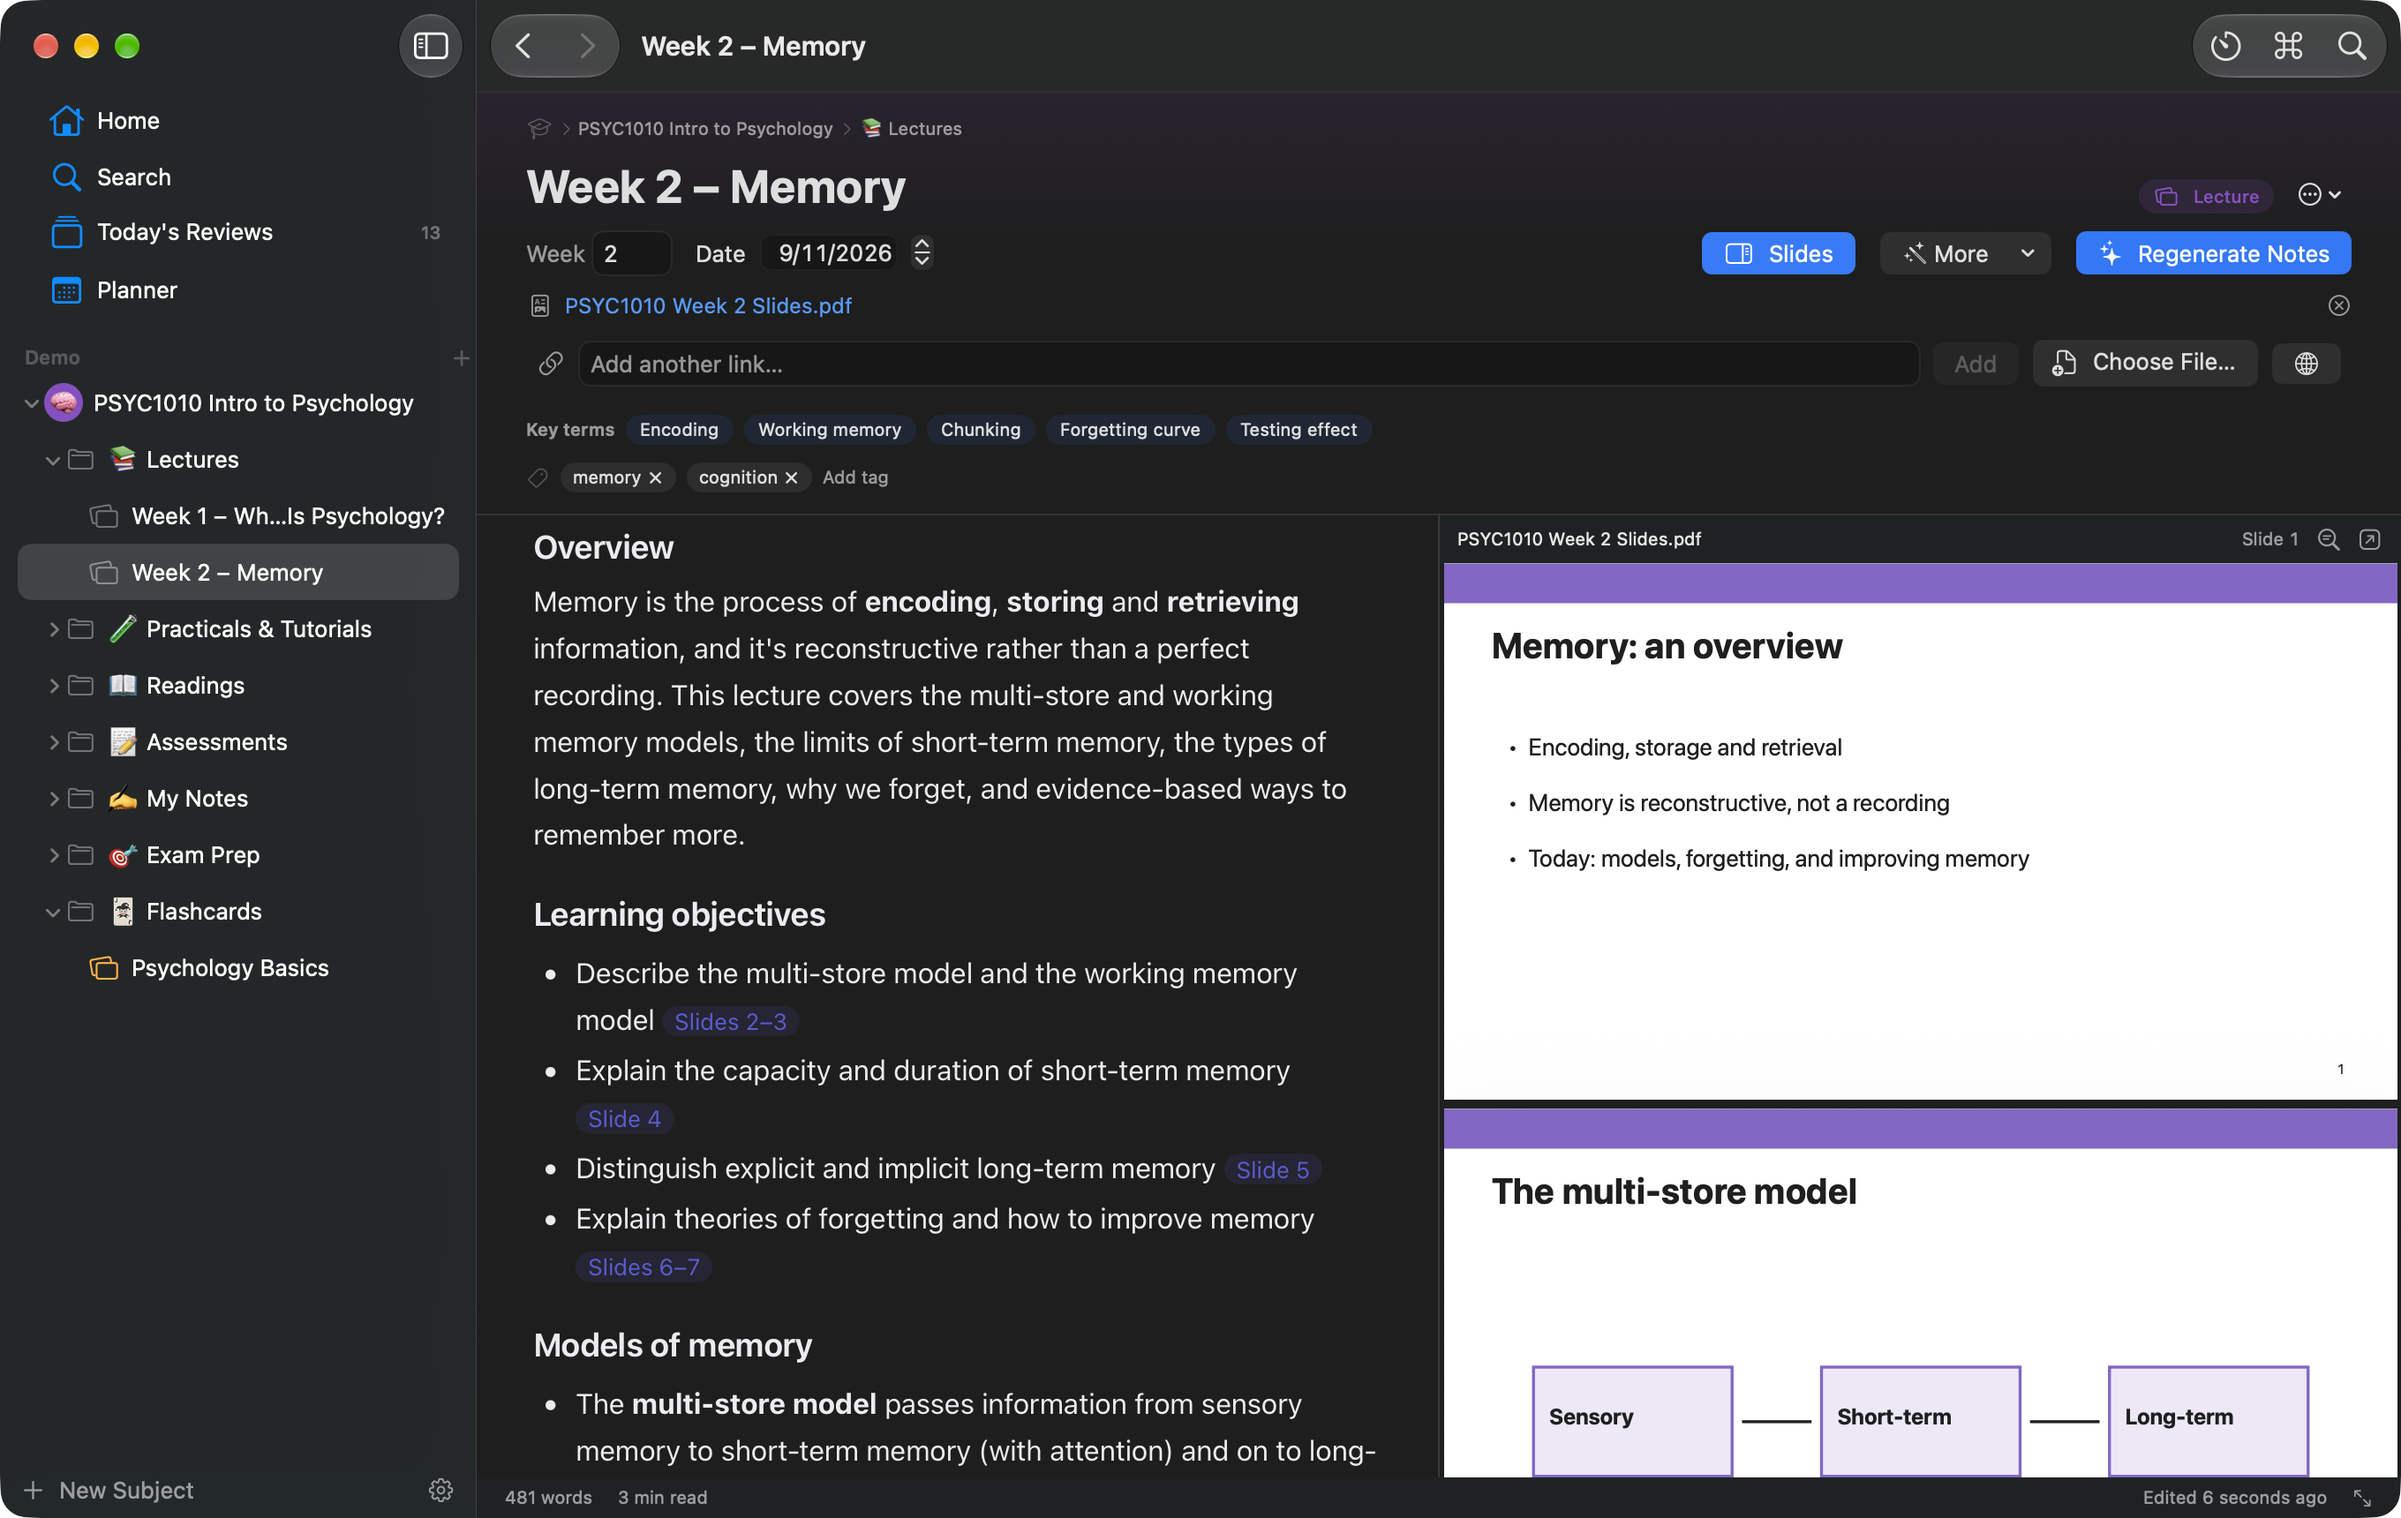
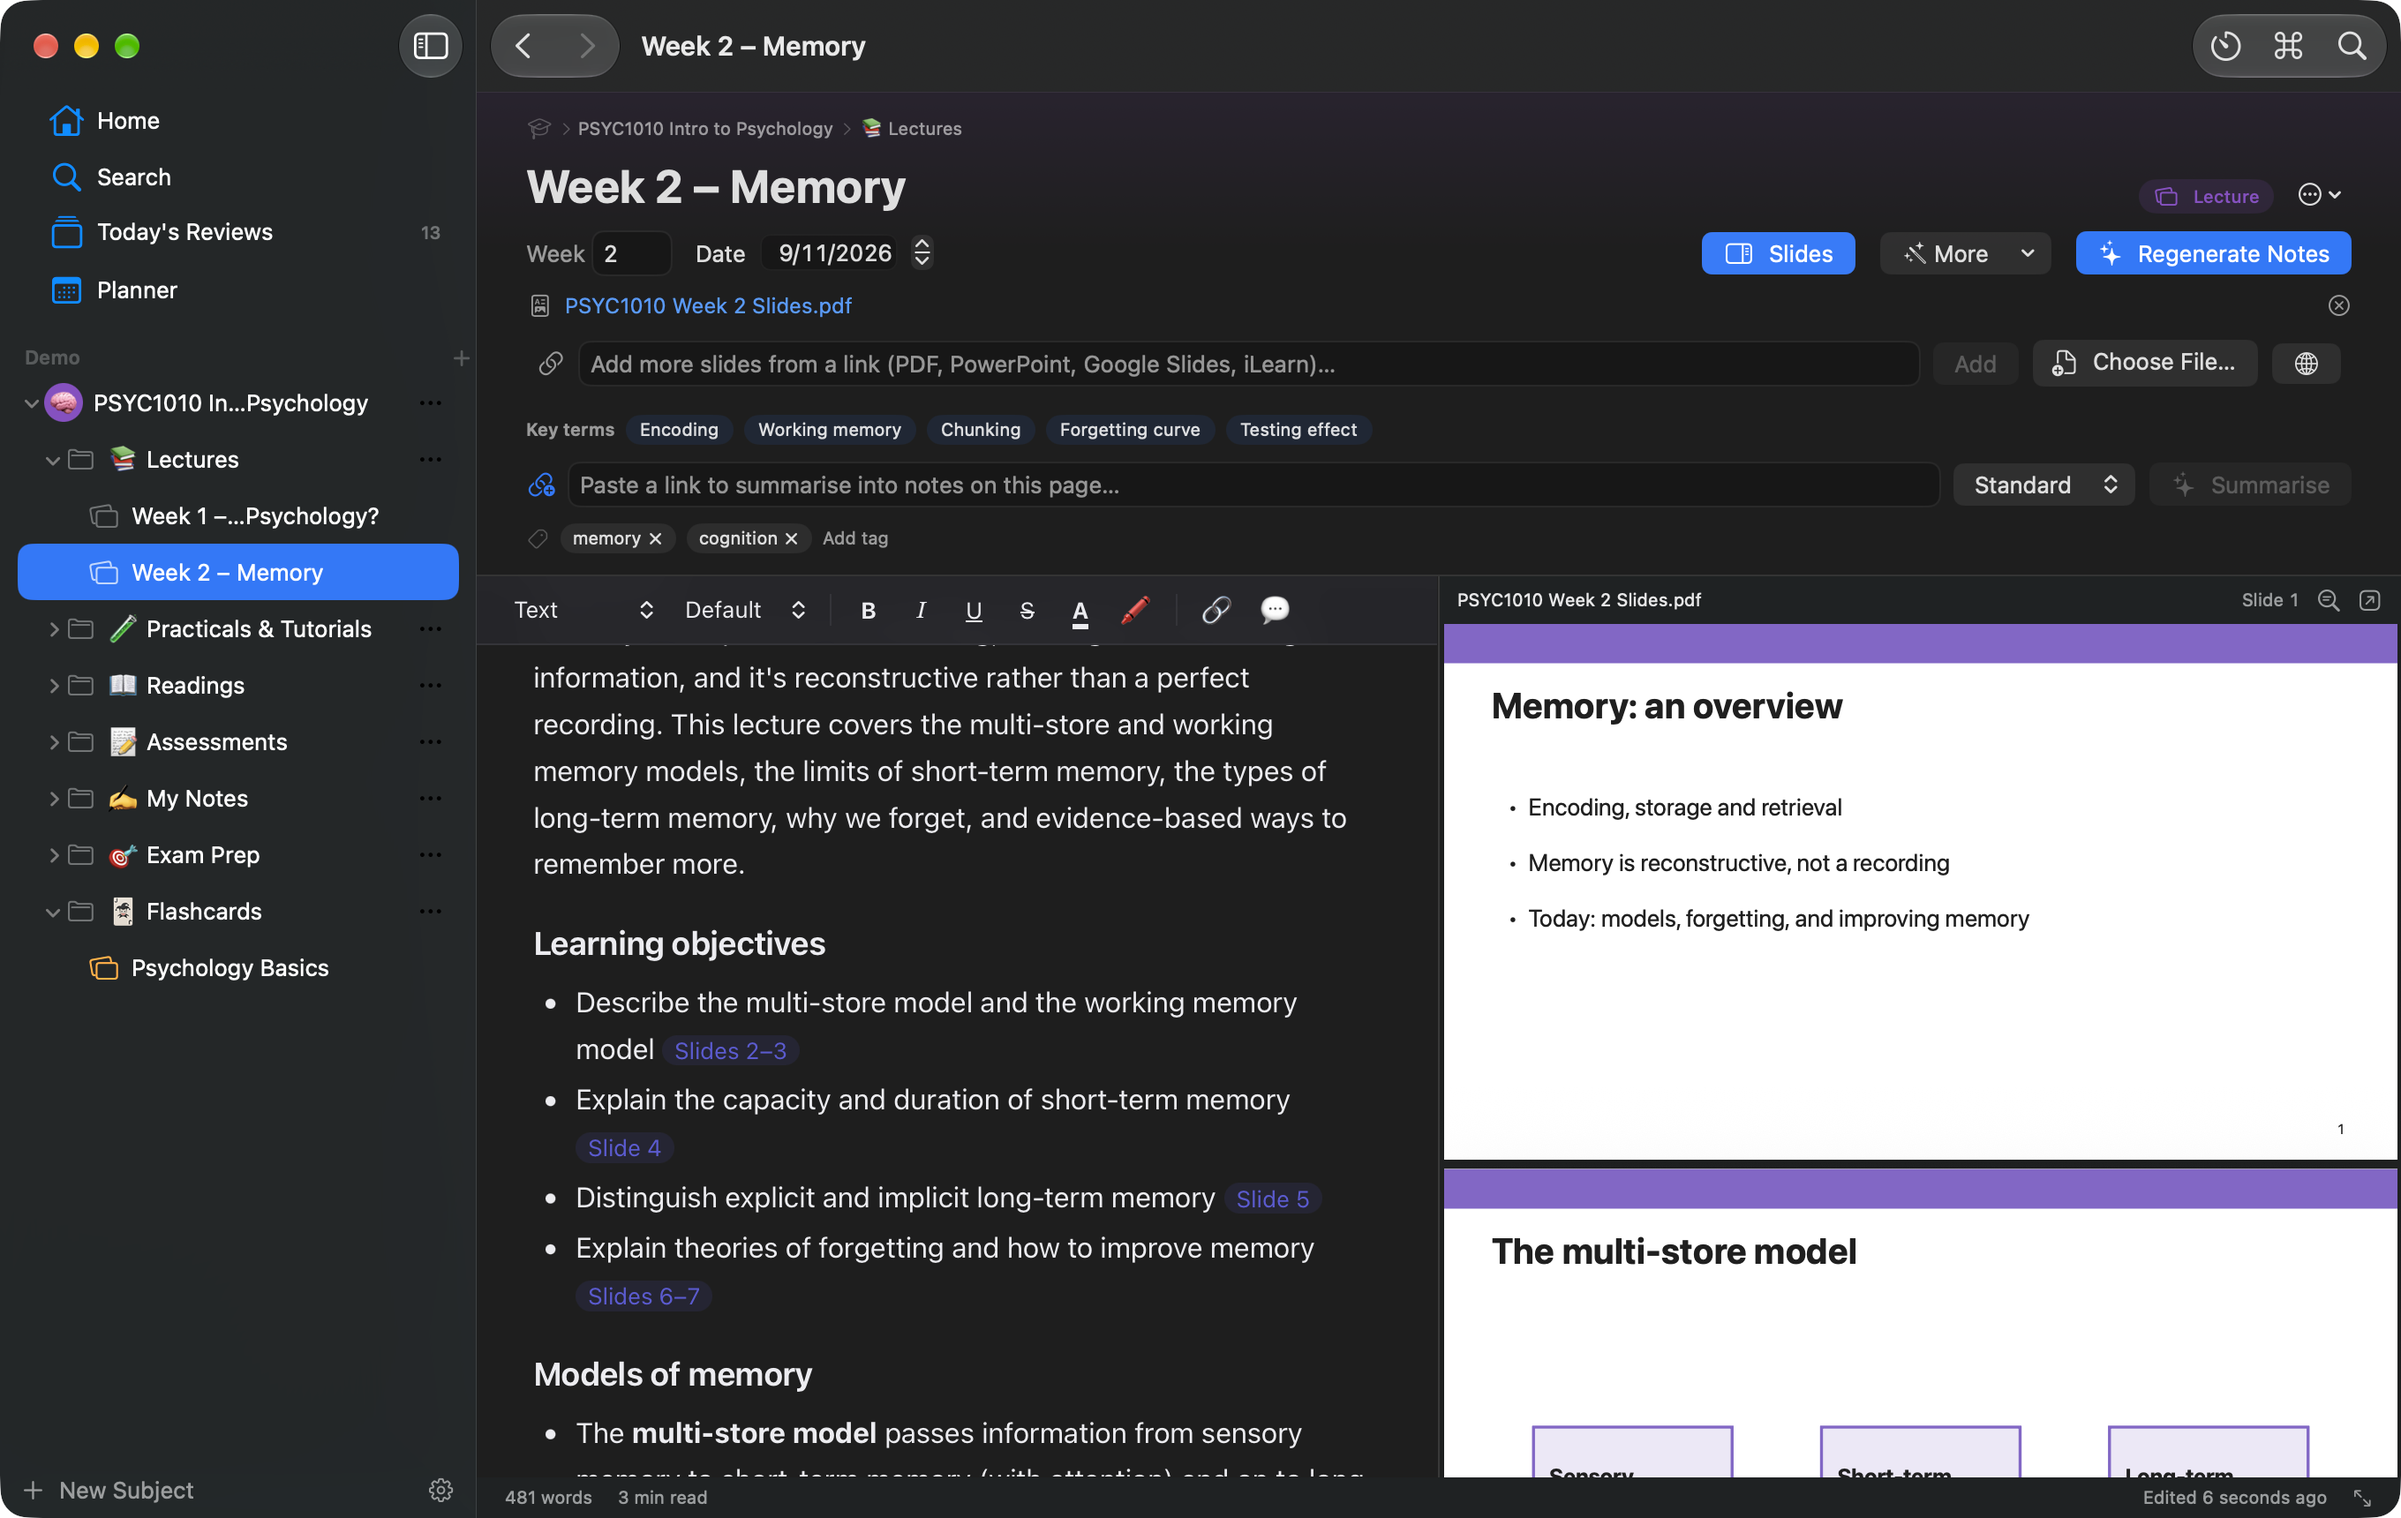
Release 1.1.0

diff --git a/release-notes/1.1.0.html b/release-notes/1.1.0.html
@@ -1,0 +1,4 @@
+<!doctype html><html><head><meta charset="utf-8"><title>Lectern 1.1.0</title>
+<style>body{font:13px -apple-system,sans-serif;margin:16px;color:#222}h2{margin:0 0 4px}h3{margin:14px 0 4px;color:#7a5af0}
+li{margin:3px 0}@media (prefers-color-scheme:dark){body{color:#eee;background:#1e1e1e}}</style></head>
+<body><h2>Lectern 1.1.0</h2><p>Ollama support, sidebar ⋯ menus, notes from a link, and a formatting toolbar with comments</p><h3>Added</h3><ul><li>Ollama as an AI provider (Settings → AI), like Atlas&#x27;s Local mode: use free models running on your Mac (localhost:11434), or Ollama&#x27;s hosted models at ollama.com with an Ollama API key kept in the Keychain. Every AI feature works with it; models that can see images also explain diagram slides. Onboarding offers “Use Ollama instead”.</li><li>A ⋯ button on subjects and folders in the sidebar (and on pages when you point at them) with New Page, New Folder, Rename, Duplicate, Move, Show in Finder, Export and Move to Trash, so you don&#x27;t need to right-click.</li><li>“Notes from a link” on every page: paste a link to an article, PDF, PowerPoint, Word file or Google Doc (or open one in Lectern&#x27;s browser if it needs your iLearn login), and the AI adds a summary, key points, notes, key terms and questions to the bottom of the page. The link is saved in the page&#x27;s sources.</li><li>A formatting toolbar above every page: text style (Text, Title, Heading 1–3, Quote, Code), font size, bold, italic, underline, strikethrough, text colour, highlight colour, links, comments, lists and undo/redo. Underline and Comment are also in the selection toolbar.</li><li>Comments: select text and add a note to it; click the text to read, edit or resolve the comment. Comments, colours and sizes are saved in the Markdown, so they survive opening the page elsewhere.</li><li>Settings → Appearance can hide the formatting toolbar.</li></ul><h3>Fixed</h3><ul><li>Lectern now always opens its main window when it starts, even if the window was closed when you last quit.</li></ul></body></html>
